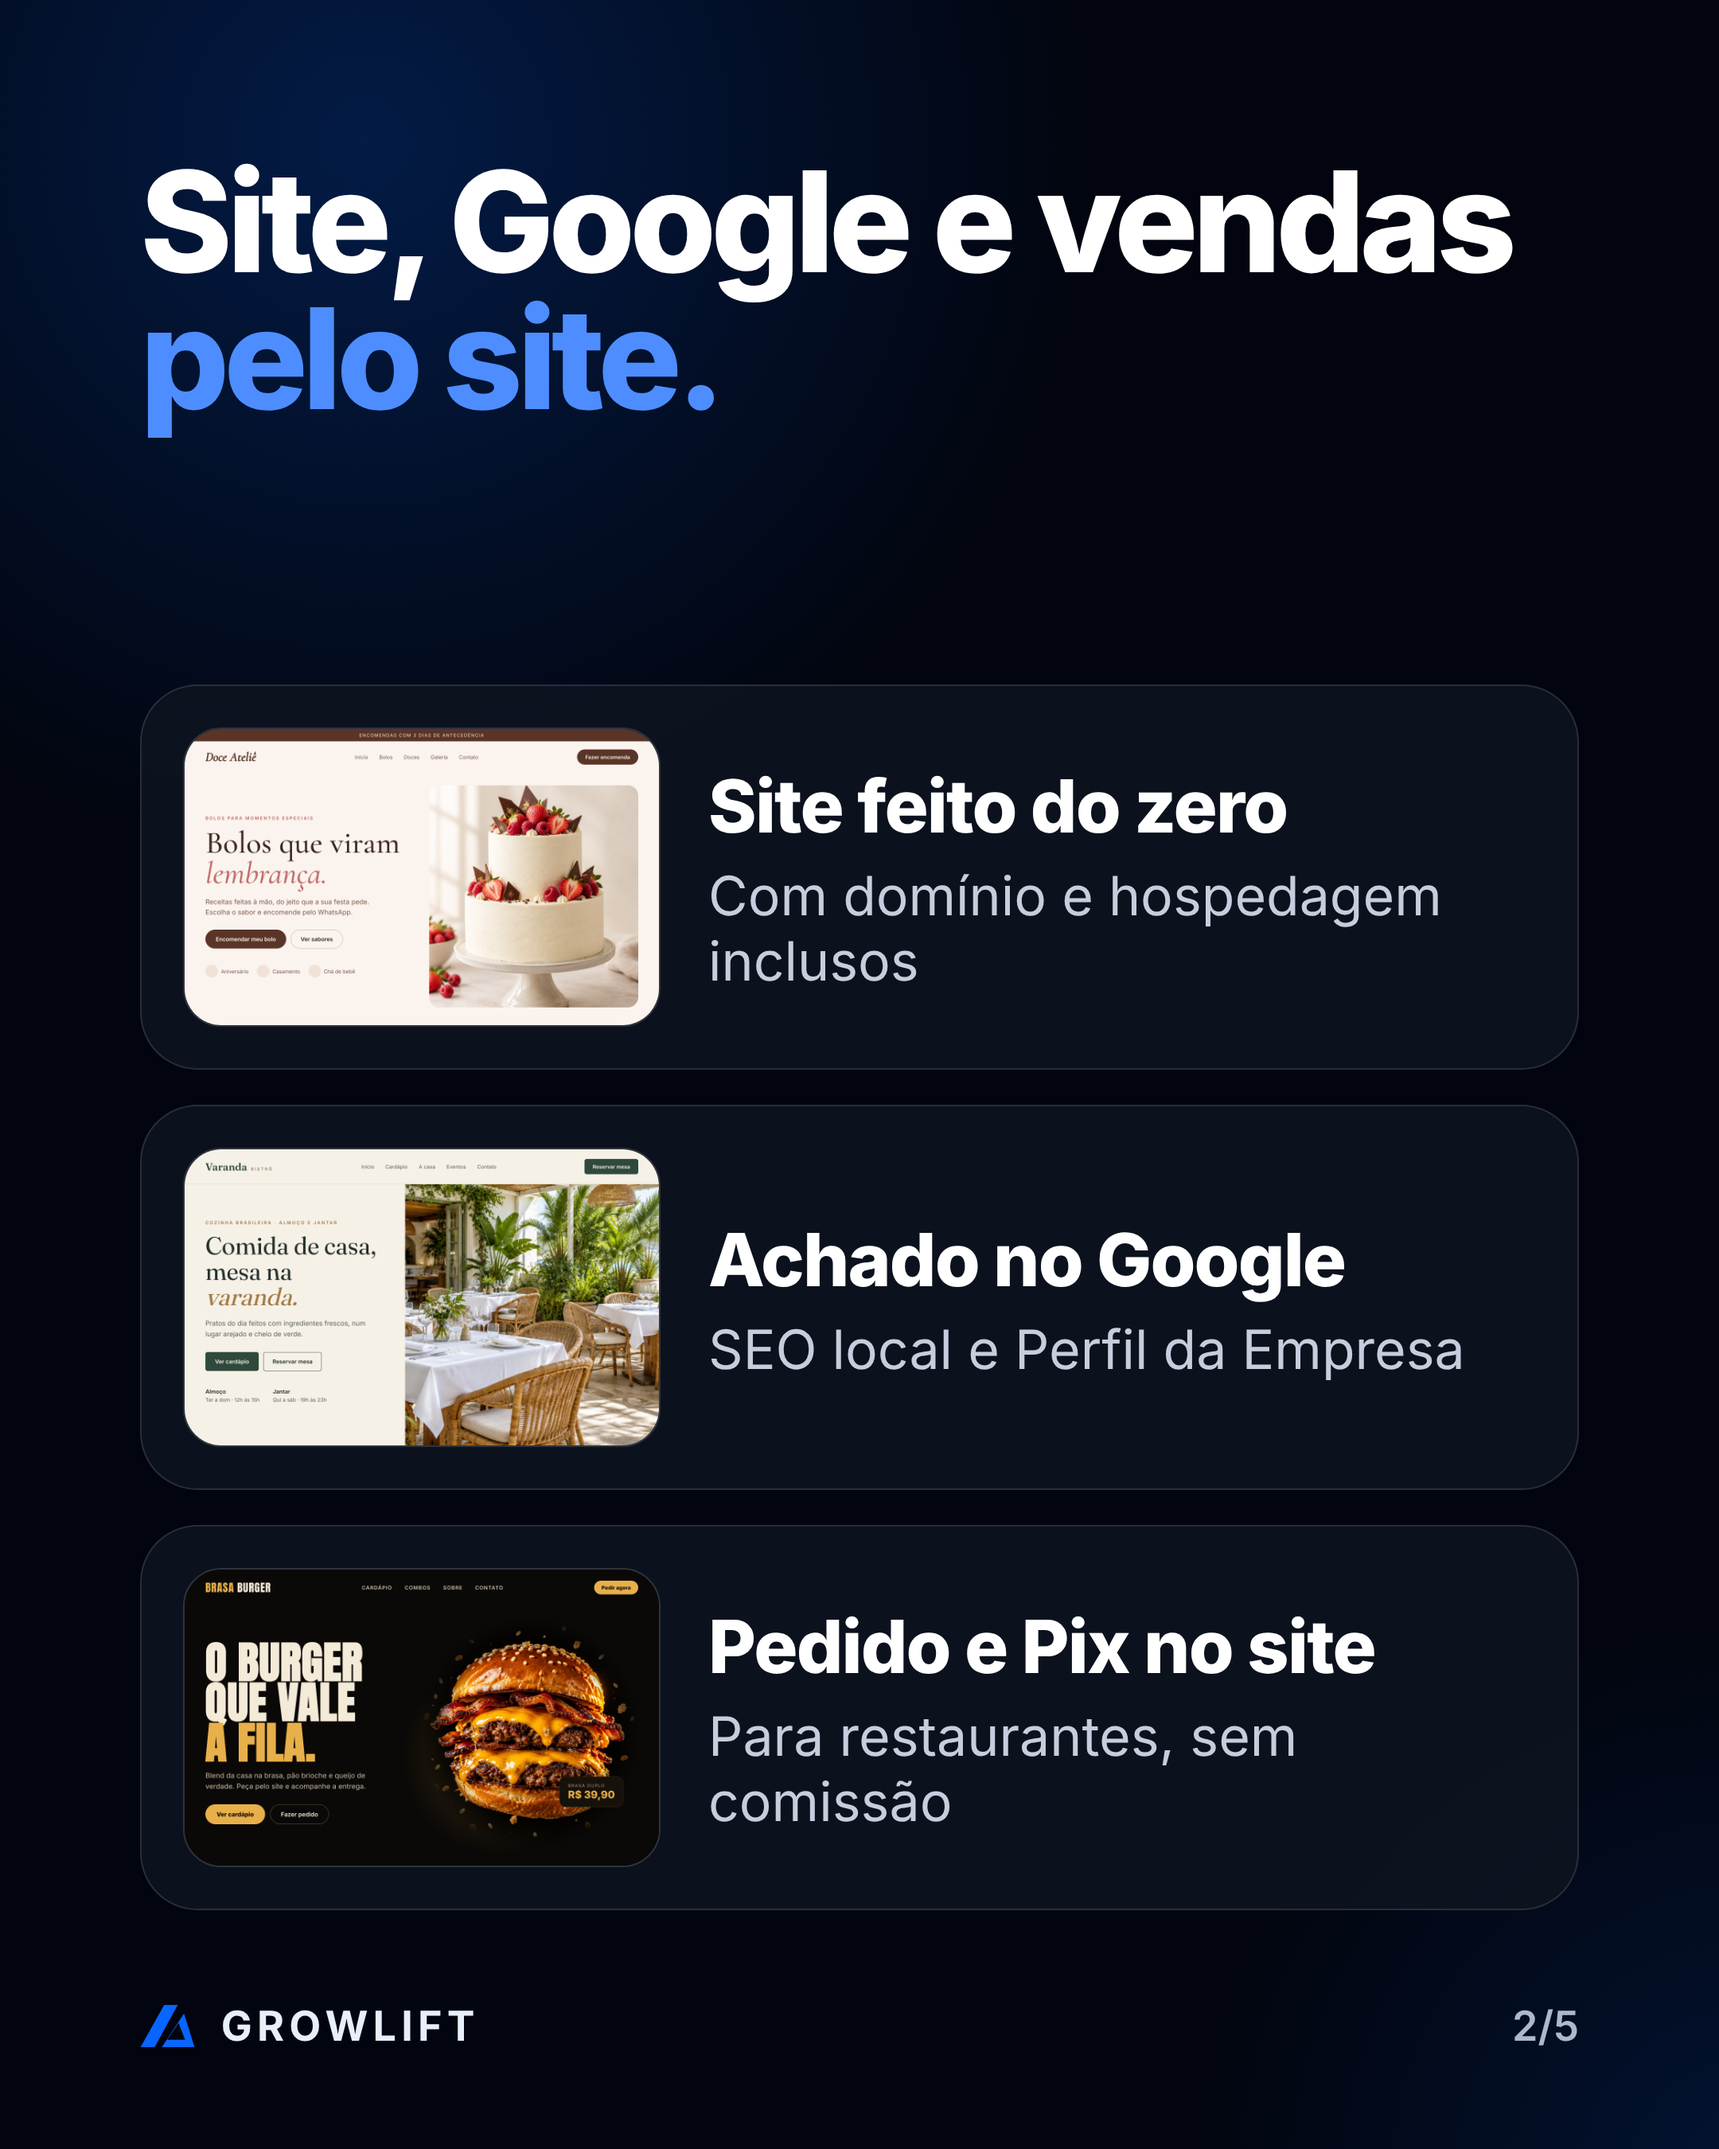
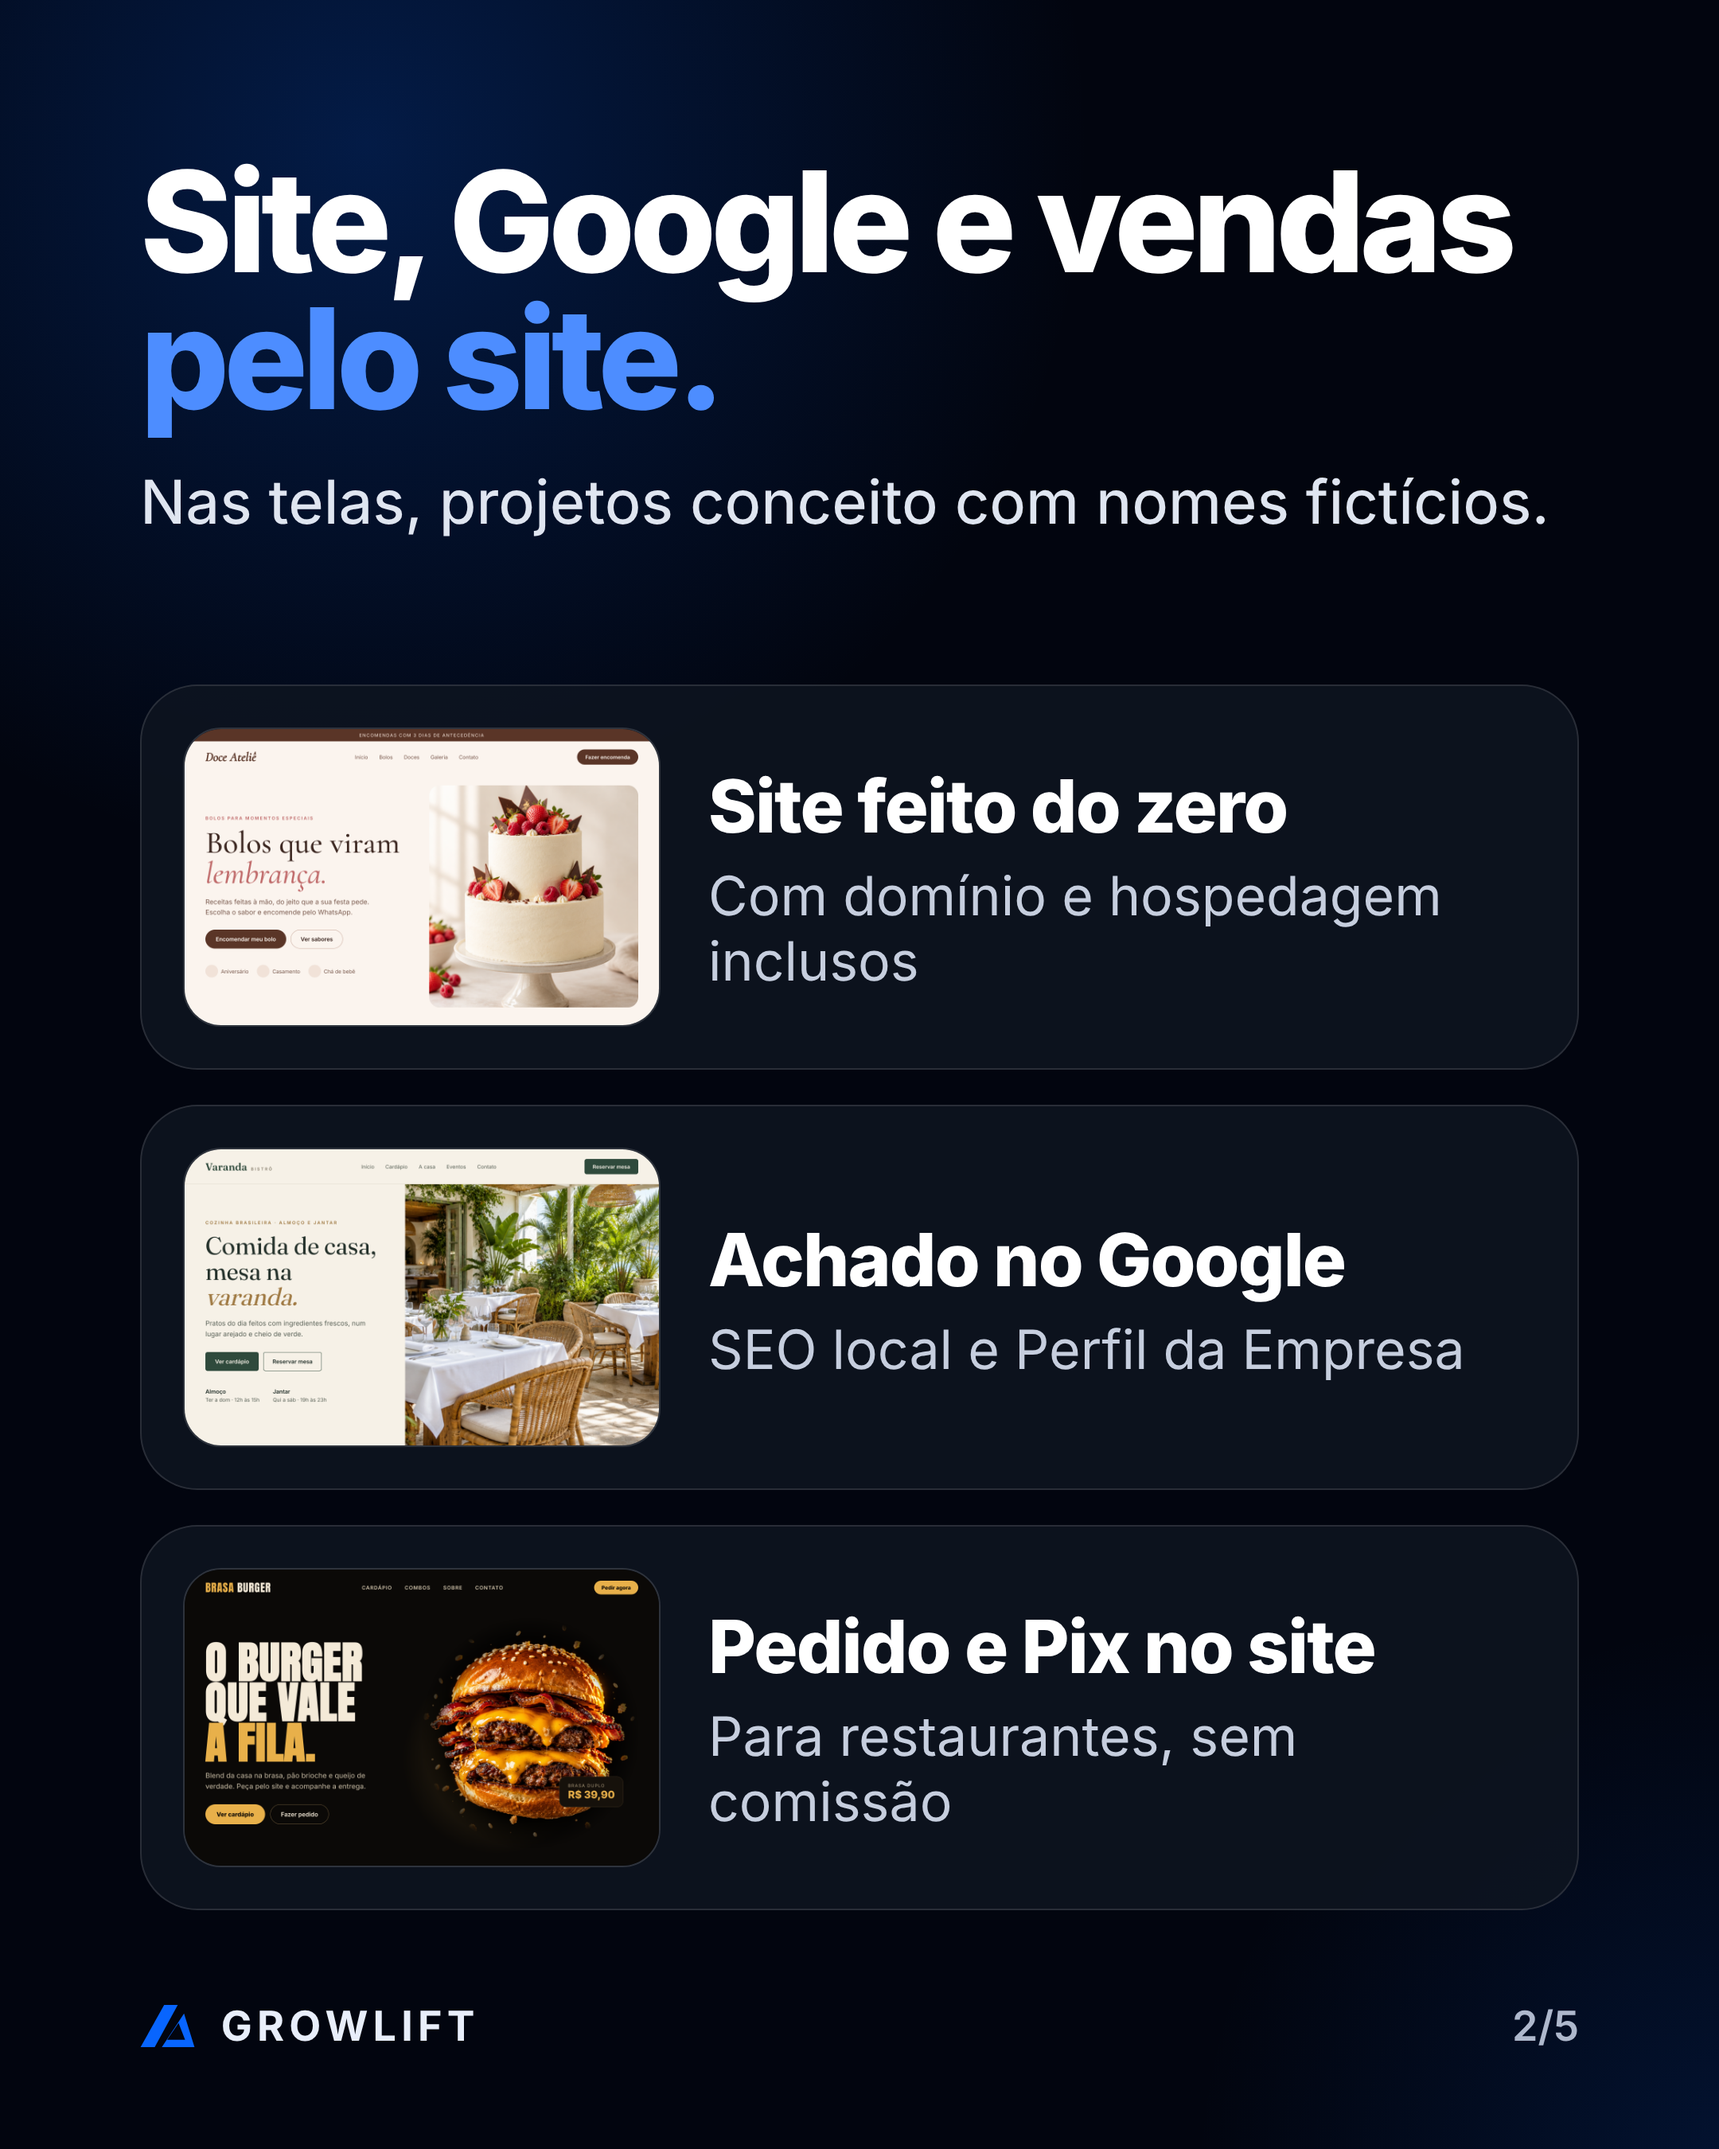
Instagram: Quem somos avisa na imagem 2 que as telas são projetos conceito
Claude-Session: https://claude.ai/code/session_0144E8K5YaHTVDtLe8swm1ug

Changed region(s): [[0.062, 0.2178, 0.8995, 0.2489]]

diff --git a/growlift-social/_fonte/html/04-posts-fixados/1-quem-somos/02.html b/growlift-social/_fonte/html/04-posts-fixados/1-quem-somos/02.html
@@ -43,7 +43,7 @@ body{background:#02050f}
     <div style="position:absolute;inset:0;background:transparent"></div>
     <div style="position:absolute;left:88px;right:88px;top:96px;bottom:150px">
     <h2 class="t-title" style="font-size:88px">Site, Google e vendas <span class="blue">pelo site.</span></h2>
-    
+    <p class="t-lead" style="font-size:38px;margin-top:22px">Nas telas, projetos conceito com nomes fictícios.</p>
     <ol style="position:absolute;left:0;right:0;bottom:0;list-style:none;display:grid;gap:22px">
       <li style="display:flex;gap:30px;align-items:center;padding:26px;border-radius:36px;background:rgba(15,21,32,.8);border:1.5px solid rgba(255,255,255,.12)">
         <img src="hd/confeitaria.png" style="flex:none;width:300px;height:188px;object-fit:cover;object-position:top;border-radius:24px;border:1.5px solid rgba(255,255,255,.14)">

diff --git a/growlift-social/04-posts-fixados/legendas.md b/growlift-social/04-posts-fixados/legendas.md
@@ -30,7 +30,9 @@ Quer ver como o seu negócio pode ficar? Peça o diagnóstico grátis pelo link 
 
 **Texto alternativo da 1ª imagem**: Capa com a marca da Growlift em vidro azul e o texto "Presença digital que vende".
 
-Sem fotos e sem o slide do Lucas e do Antônio (decisão de 26/10/2026).
+Sem fotos e sem o slide do Lucas e do Antônio (decisão de 26/10/2026). A imagem 2 avisa que as telas são projetos conceito com nomes fictícios (29/10/2026).
+
+**Stories no dia do post:** compartilhem o carrossel no story (avião de papel › Adicionar ao story) e, depois, o story Contato 02 com o adesivo de link para `https://growlift.com.br/#diagnostico` e o texto "Pedir diagnóstico grátis".
 
 ## 2 · Portfólio (7 imagens)
 
